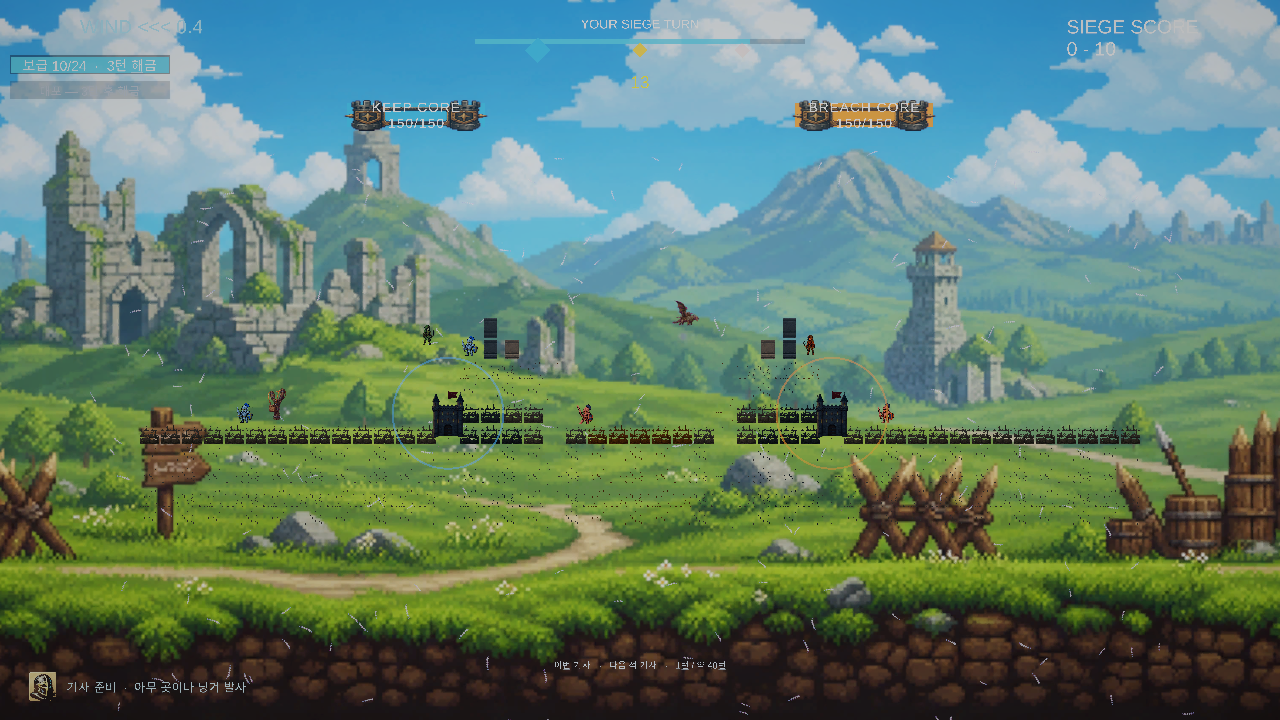
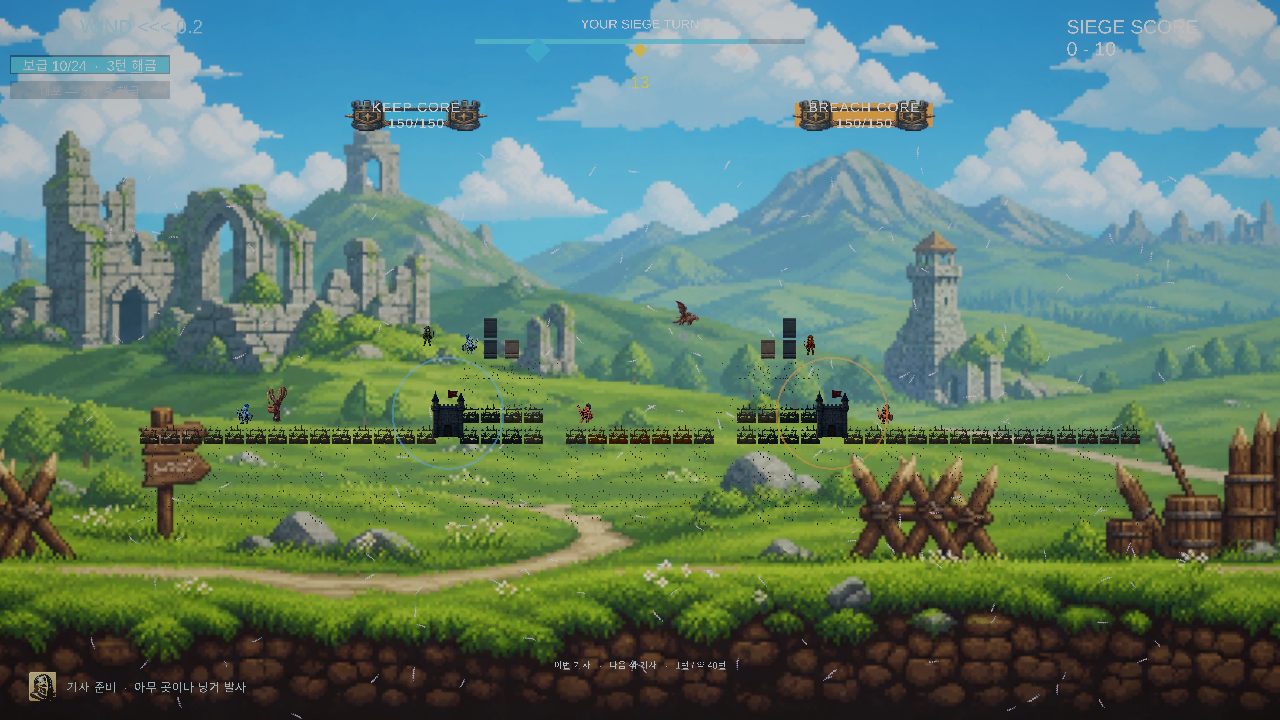
feat(trace): draw the arc while the shot is in the air
Requested: the projectile's path should be visible as it flies, dotted.

Everything needed for that already existed. `ShotTraceDirector` has the dash
texture, the dark casing, tiled texture mode and per-side widths — it just never
drew until `Seal()`, which runs at turn resolution. `Sample` accumulated points
and returned. So the flight itself was untraced: the player watched a bare sprite
travel and learned its path once the path had stopped being useful.

Nothing caught it because every existing test measures the arc AFTER a turn
resolves, and that is exactly when it did work.

`Sample` now draws what it has accumulated. No new visual: the same two layers
the spent arc used, so a live arc and a remembered one are one object at two
moments rather than two things to keep in step.

One accident worth keeping — `Draw`'s gradient is dim at the muzzle and full "at
the impact", and during flight that end is the projectile's current position, so
the moving head is the brightest part of the strip.

Redrawing per sample is cheap because the gate is: 0.35 world units between
points, capped at MaxSamples. A measured flight peaks at 29 positions over 1.7
seconds. `Draw` allocates only when it creates the trace, so repeated calls do
not leak a material per frame.

`ShotOpen` is exposed for the same reason `SampleCount` already was: a test that
looks after resolution cannot tell a live arc from the spent one that replaces
it.
[…]

diff --git a/Assets/Tests/PlayMode/LiveArcDuringFlightProbe.cs b/Assets/Tests/PlayMode/LiveArcDuringFlightProbe.cs
@@ -1,0 +1,106 @@
+using System.Collections;
+using System.Globalization;
+using System.IO;
+using NUnit.Framework;
+using UnityEngine;
+using UnityEngine.SceneManagement;
+using UnityEngine.TestTools;
+
+namespace CastleBusters.Tests
+{
+    /// <summary>
+    /// Pins that the shot's arc is on screen WHILE the projectile flies, not only after it lands.
+    ///
+    /// `ShotTraceDirector.Sample` accumulated points and drew nothing; the arc first appeared in
+    /// `Seal`, which runs at turn resolution. So the flight was untraced — the player watched a bare
+    /// sprite travel and learned its path once the path had stopped being useful. Nothing caught
+    /// that, because every existing test measured the arc AFTER a turn resolved, which is exactly
+    /// when it did work.
+    ///
+    /// Measuring mid-flight is therefore the whole point of this file, and it is why the check reads
+    /// the renderer during a coroutine rather than after one.
+    /// </summary>
+    public class LiveArcDuringFlightProbe
+    {
+        [UnityTest]
+        [Timeout(300000)]
+        public IEnumerator TheArcIsDrawnWhileTheProjectileIsStillMoving()
+        {
+            GameManager.PendingStage = StageId.Stage1;
+            SceneManager.LoadScene("SampleScene", LoadSceneMode.Single);
+            yield return null;
+            yield return new WaitForSecondsRealtime(1.5f);
+            NarrativeVideoIntro.Active?.Skip();
+            yield return null;
+
+            var gm = GameManager.Instance;
+            Assert.That(gm, Is.Not.Null, "the arena must have a GameManager");
+            gm.BeginSiege();
+            yield return new WaitForSecondsRealtime(1.0f);
+
+            var lm = Object.FindFirstObjectByType<LaunchManager>();
+            Assert.That(lm, Is.Not.Null, "the arena must have a LaunchManager");
+
+            // Nothing should be drawn before the first shot of the match.
+            Assert.That(FindArc(), Is.Null,
+                "a player arc exists before anything has been fired; this probe cannot tell a live "
+                + "arc from a leftover one if the board opens with one already drawn.");
+
+            lm.SimulateLaunch(lm.GetSeparatedAimVelocity());
+
+            // Poll while the shot is airborne. The sample gate is 0.35 world units, so two points
+            // exist very early in the flight — but the turn does not resolve for seconds, and that
+            // gap between "moving" and "resolved" is the window this asserts on.
+            int peakPositions = 0;
+            float peakAt = -1f;
+            bool sawWhileOpen = false;
+            float elapsed = 0f;
+
+            while (elapsed < 2.5f)
+            {
+                var arc = FindArc();
+                if (arc != null && arc.positionCount > peakPositions)
+                {
+                    peakPositions = arc.positionCount;
+                    peakAt = elapsed;
+                }
+
+                // ShotOpen is the director's own word for "the projectile has not resolved yet".
+                if (arc != null && arc.positionCount >= 2 && ShotTraceDirector.ShotOpen)
+                {
+                    sawWhileOpen = true;
+                }
+
+                yield return new WaitForSecondsRealtime(0.1f);
+                elapsed += 0.1f;
+            }
+
+            var dir = Path.Combine("_workspace", "current", "qa", "evidence", "visibility");
+            Directory.CreateDirectory(dir);
+            File.WriteAllText(Path.Combine(dir, "live-arc.txt"), string.Format(
+                CultureInfo.InvariantCulture,
+                "saw arc while shot open: {0}\npeak positions: {1}\nfirst seen at: {2:F1}s\n",
+                sawWhileOpen, peakPositions, peakAt));
+
+            Assert.That(sawWhileOpen, Is.True,
+                $"the arc never had two or more points while the shot was still open. Peak was "
+                + $"{peakPositions} positions at {peakAt:F1}s. `Sample` must draw what it has "
+                + "accumulated; accumulating silently and drawing in `Seal` puts the arc on screen "
+                + "only after the projectile has landed, which is the defect this pins.");
+
+            Assert.That(peakPositions, Is.GreaterThan(3),
+                $"the live arc peaked at {peakPositions} positions. The sample gate is 0.35 world "
+                + "units, so any real flight crosses that several times — a strip this short means "
+                + "the draw is firing once and then not tracking the projectile.");
+        }
+
+        /// <summary>The player's arc core, or null when it has not been created yet.</summary>
+        private static LineRenderer FindArc()
+        {
+            var root = GameObject.Find("ShotTrace_Player");
+            if (root == null) return null;
+            var core = root.transform.Find("Core");
+            return core == null ? null : core.GetComponent<LineRenderer>();
+        }
+    }
+}

diff --git a/Assets/Scripts/ShotTraceDirector.cs b/Assets/Scripts/ShotTraceDirector.cs
@@ -132,6 +132,15 @@ namespace CastleBusters
         /// <summary>Samples retained for the in-flight shot. Exposed for tests and diagnostics.</summary>
         public static int SampleCount => samples.Count;
 
+        /// <summary>
+        /// True while a shot is airborne and its arc is still growing.
+        ///
+        /// Exposed for the same reason as <see cref="SampleCount"/>: the arc is now drawn DURING
+        /// flight, and a test that checks it after the turn resolves cannot tell a live arc from the
+        /// spent one that replaces it. This is the window's own name.
+        /// </summary>
+        public static bool ShotOpen => shotOpen;
+
         // Domain-init guard for fast-enter-playmode (domain reload disabled), mirroring CastleRuinFx.
         [RuntimeInitializeOnLoadMethod(RuntimeInitializeLoadType.SubsystemRegistration)]
         private static void ResetStatics() => ResetForNewMatch();
@@ -192,12 +201,36 @@ namespace CastleBusters
             coreDamageThisShot = 0f;
         }
 
-        /// <summary>Offers a flight position. Distance-gated so the arc is frame-rate independent
-        /// (see <see cref="ShotTracePath.ShouldSample"/>).</summary>
+        /// <summary>
+        /// Offers a flight position, and draws what has accumulated so far.
+        ///
+        /// Distance-gated so the arc is frame-rate independent (see
+        /// <see cref="ShotTracePath.ShouldSample"/>).
+        ///
+        /// The drawing is the part that was missing. Until now this method only accumulated, and the
+        /// arc first appeared in <see cref="Seal"/> — at turn resolution, after the projectile had
+        /// already landed. So the flight itself was untraced: the player watched an unadorned sprite
+        /// travel and only learned its path once the path no longer mattered. Requested directly
+        /// ("아군이 발사체를 놓았을 때는 날아가는게 보이게, 그때 궤도가 점선으로").
+        ///
+        /// Nothing new is drawn WITH: the dash texture, the dark casing, the tile mode and the
+        /// widths are the same layers the spent arc already used, so a live arc and a remembered one
+        /// are the same object at two moments rather than two things to keep consistent.
+        ///
+        /// Redrawing the whole strip per sample is O(n) each time, and the gate makes n small: 0.35
+        /// world units between points, capped at MaxSamples. A full-power lob is on the order of a
+        /// hundred points, and only when it has moved far enough to add one.
+        /// </summary>
         public static void Sample(Vector2 position)
         {
             if (!shotOpen) return;
-            if (ShotTracePath.ShouldSample(samples, position)) samples.Add(position);
+            if (!ShotTracePath.ShouldSample(samples, position)) return;
+            samples.Add(position);
+
+            if (Application.isPlaying && ShotTracePath.IsDrawable(samples))
+            {
+                Draw(shotByPlayer ? playerTrace : enemyTrace, shotByPlayer, samples);
+            }
         }
 
         /// <summary>

diff --git a/_workspace/current/production/task-manifest.md b/_workspace/current/production/task-manifest.md
@@ -140,3 +140,4 @@ Blocking notes:
 | 72 | 사용자 보고 3건: 거대 벽 / 사라진 빨간 점 / 안 보이는 궤적 | engineering + QA | done 2026-08-20 - **3건 전부 제가 만든 회귀였고, 원인이 같은 종류였다: 역할에 맞지 않는 불투명도의 아트로 교체.** **(1) "유니티 실행전 돌이 크게 보인다"** - 작업 70이 지면을 `CastleFacadeDirector`에서 제외해 아틀라스를 살렸는데, CastleSkin은 **47~82% 불투명**이라 배경의 풀·길·돌이 비쳤고 Ground 타일은 **100% 불투명**이라 배경을 덮었다. 47×5 불투명 사각형이 화면 중앙을 가로지르면 거대한 벽으로 읽힌다 - 정확히 그렇게 보고됐다. 아틀라스 낭비는 실재했지만 **고칠 쪽이 파사드가 아니었다**: `CreateGround`가 스킨 아트가 있으면 아틀라스를 아예 만들지 않고, 지면은 다시 스킨을 입는다(박스 제외는 유지 - 벽 블록 역할 계산 결함은 별개로 유효). 그 과정에 **두 번째 결함**: `if (groundTex == null) continue;`가 루프 끝의 **부모 지정까지 건너뛰어** 지면이 성 자식이 안 되고 스킨도 구조 계산도 받지 못했다(드문 실패 경로였던 것을 정상 경로로 만들자 드러남). 긍정형 `if (groundTex != null)`로 교체, 기존 소스 문자열 핀도 갱신. **(2) "빨간색점 드랍 위치가 사라졌다"** - `ui_impact_marker`가 **8.8% 불투명 외곽선**이고 0.44u(≈14px)에서 사라진다. 절차적 원은 채워진 디스크(≈78%)였다. 흰 픽셀 + 렌더러 틴트로 복원 - 채움과 깨끗한 틴트를 동시에 얻는다(원래 앰버를 픽셀에 구워 자기명중 청색과 곱해지던 문제도 해결). `PredictedDestinationColor` docstring이 *"붉은 점은 명시된 요구사항"*이라 적어두었는데 **핀이 없어 조용히 깨졌다** - `ImpactMarkerVisibilityTests` 2건 추가(커버리지 >0.5, 흰 픽셀, 적색 우세). **(3) "아군 궤적이 안 보인다"** - 실측: 궤적 자체 색이 머리 2.70:1, **꼬리 1.54:1**(비그래픽 기준선 3:1). **밝은 후보는 전부 더 나쁘다** - 시안 1.78, 로열블루 1.93, 호박 1.37: 하늘(0.43,0.65,0.72)과 초지(0.40,0.54,0.43)가 둘 다 중간 밝기라 **채도로는 밝기 충돌을 못 고친다.** 단일 색으로 양쪽 3:1을 넘기는 것은 없다. 2층으로 해결 - 짙은 남색(0.03,0.08,0.30) 림을 코어 뒤 한 단계 아래에 상수 폭으로, 라벨이 outline을 받은 것과 같은 해법. **중앙값 2.30 -> 4.14 (+80%)**, 하위 10% 1.15 -> 2.65. 남은 약한 10%는 x 181~1168 전체에 분산·y 368 집중 - **꼬리가 아니라 궤적이 어두운 유닛·블록 위를 지나는 지점**이고, 어두운 림이 어두운 물체 위에서 경계를 못 만드는 것은 구조적이다(3층을 만드는 것은 나쁜 거래). **측정 중 제 추측이 세 번 틀렸다**: 꼬리 탓이라 했고(위치가 분산), 헤일로 테이퍼 탓이라 했고(상수 폭으로 2.69->2.63, 무변화), 첫 지표가 프린지를 궤적으로 셌다(임계값 24->64/255). 그리고 첫 이웃 지표가 2층 설계에 안 맞았다 - 픽셀별 대비는 어두운 배경에서 림이 아니라 코어가 나르는 것을 못 본다. 근거: EditMode **584/586**(실패 1 = MCP 노이즈), PlayMode 3/3, `qa/evidence/art-apply/trajectory-contrast.txt`·`terrain-rows.txt` | G4/G6 |
 | 73 | 라이브에서 반투명 거대 석재 사각형이 판 위에 겹침 | engineering + QA | done 2026-08-20 - 사용자 스크린샷(라이브 `jellyggumi.github.io`). **원인: `UpdateVisuals`가 세 손상 밴드에서 스프라이트를 교체하면서 `ApplyPresentationScale`을 부르지 않는다.** 다른 할당 지점(`ApplyBlockData`·`SetPresentationSprite`·`SetSkinSprites`)은 전부 부르고 이 하나만 빠져 있어 "블록이 원본 크기로 렌더"되는 종류 전체가 이 구멍으로 빠졌다. 두 경로로 터진다 - (a) `ApplyPresentationScale`은 렌더러에 스프라이트가 없으면 **조기 반환**하므로 스프라이트 없이 Awake에 도달한 블록은 `localScale` 1로 남고, 이후 첫 밴드가 할당하는 아트를 저작 크기로 렌더한다(`block_normal` 1254px @ 100ppu = **12.54 world unit**, 1u 격자 위에서), (b) 손상 단계 아트가 normal과 원본 크기를 공유한다는 보장이 없어 향후 불일치가 균열 시 크기 점프로 나타난다. **진단을 화면에서 역산해 확인**: 게임 뷰 735px / 22.4u = 32.8 px/u, 사각형 약 450px = 13.7u -> `block_normal`의 12.54u와 일치. **변이 테스트가 확증**: 수정을 빼면 테스트가 정확히 **12.54**를 보고한다. akillness의 `fx_spawn` 크기 수정(`42ff8c7b`)을 먼저 의심했고 **틀렸다** - 라이브 빌드(08-20 01:18 KST)가 그 커밋(00:23)보다 뒤라 이미 배포돼 있었다. 조치: `UpdateVisuals` 끝에서 `ApplyPresentationScale()` 호출(스프라이트 bounds에서 스케일을 유도하므로 멱등). **핀 2건 신규**(`BlockRenderedSizeTests`) - 밴드 3단계를 서로 다른 원본 크기(64/256/512px)로 통과시키고 되돌리며 `SpriteRenderer.bounds`로 측정, 그리고 null 시작 경로. 출하 이유는 **밴드 변경 후 렌더 크기를 아무도 재지 않았다**는 것이다 - 어느 밴드가 어느 스프라이트를 고르는지 보는 테스트와 생성 시점 콜라이더·시각 일치를 보는 테스트가 있었고 그 사이에 교체가 있었다. 근거: EditMode **587/588**(실패 0, Skip 1 정당), PlayMode 3/3, 변이 2/2 실패 확인 후 바이트 동일 복원 | G4/G6 |
 | 74 | 반투명 거대 사각형의 진짜 원인 규명 (작업 73 후속) | engineering + QA | done 2026-08-20 - 작업 73이 `UpdateVisuals`의 리스케일 누락을 고쳤지만 **그것이 스크린샷의 원인이라고 증명하지 못했다.** 사용자가 재현 조건을 모른다고 해서 추측을 버리고 전수 조사로 갔다. **(1) 아틀라스는 원인이 아니다** - 패커는 활성이고 실제로 축소하지만(1254px -> 396px, 12.54u -> **3.96u**) **세 밴드가 같은 크기로 패킹**된다. 블록 284개 × 3밴드 = **849 측정, 위반 0건**. 경기 시작 시점 2.5u 초과는 배경(81.5u) 하나뿐이고 발사 후에도 같다. **(2) 진짜 원인: `GameFeelRingPulse:1371`이 `finalRadius`를 `localScale`에 직접 대입한다.** 그것은 **원본 1u 스프라이트에서만** world 반지름이다 - `SpawnShockwaveRing`의 절차적 링은 `Sprite.Create(tex, rect, pivot, pixelsPerUnit: 48)`에 48px이라 정확히 1.0u여서 이름이 참이었고, `SpawnHiggsfieldAccent`는 512px @ 100ppu = **5.12u** 아트를 넘겨 같은 대입이 **5.12배**를 만든다. 턴 진행 프로브가 잡았다: `HiggsfieldCollapseDustAccent` **3.64u**(턴 1부터 매 충돌·붕괴), `HiggsfieldImpactAccent` 2.61u. `SpawnCollapseDust`는 0.4~0.85로 클램프하므로 0.71을 요청했고 **0.71 × 5.12 = 3.63**이 그려졌다. **변이가 양방향 확증**: 수정을 빼면 테스트가 3.63을 보고하고 라이브 실측이 3.64였다. 조치: 정규화를 펄스 안으로(`nativeToWorld = 1/최대변`) - 모든 호출부가 한 번에 고쳐지고 절차적 링은 1.0u라 무변화(변이에도 통과, 두 케이스를 함께 둔 이유). **(3) 추측이 다섯 번 틀렸다**: `fx_spawn` 버스트(이미 배포됨), 이벤트 게이트(`Start`에서 스케일), 설치 벽돌(`ApplyBlockData`가 먼저), 그리고 작업 73의 두 발동 경로(프리팹에 스프라이트 있음·세 PNG 크기 동일). **(4) 정당한 것을 구분했다** - `fx_eruption` 8.07u는 `columnHeight=7.5`에 ±12% 지터이고 그 값이 `Physics2D.OverlapArea` 사각형과 **같은 변수**라 아트가 광고하는 위험과 일치한다. 이름으로 제외하고 기준선은 3.0 유지(정당 최대 2.76 < 3.0 < 결함 3.63). 신규 프로브 2건(`BlockSizeCensusProbe`·`MidMatchOversizeProbe`) + 핀 3건(`RingPulseWorldRadiusTests`, 절차/아트 두 케이스 + null). 근거: EditMode **590/591**(실패 0, Skip 1 정당), 9턴 walk + 화포 설치 **0건**, `qa/evidence/block-size/` | G4/G6 |
+| 75 | 발사체 비행 중 궤적을 점선으로 보이게 | engineering + QA | done 2026-08-20 - 사용자 요청 "아군이 발사체를 놓았을때는 날아가는게 보이게, 그때 궤도가 점선으로 해서 잘보이게". **점선·케이싱·타일링 기계는 이미 다 있었고 빠진 것은 비행 중 렌더 호출 하나였다.** `ShotTraceDirector.Sample`이 점만 누적하고 그리지 않아, 궤적이 `Seal()`(턴 해결, `GameManager:2579`) 때 비로소 나타났다 - 즉 **비행 자체는 무궤적**이었고 플레이어는 맨 스프라이트가 날아가는 것을 보다가 경로가 더 이상 쓸모없어진 뒤에 그것을 알게 됐다. 아무도 못 잡은 이유는 기존 테스트가 전부 **턴 해결 후**를 재는데 그때는 실제로 동작했기 때문이다. 조치: `Sample`이 누적한 것을 즉시 `Draw`한다 - **새로 그리는 것은 없다**(대시 텍스처·어두운 케이싱·`LineTextureMode.Tile`·폭 전부 기존 spent arc의 레이어 재사용). 부수 이점: `Draw`의 그라디언트가 "착탄 쪽이 진하게"인데(`:371-372`) 비행 중 그 끝은 **발사체의 현재 위치**이므로 움직이는 머리가 가장 진하다 - 의도하지 않았지만 맞는 동작. 성능: 표본 게이트가 0.35 world unit이고 `MaxSamples` 상한이 있어 재드로가 작다(실측 **29점**). 반복 호출 안전성 확인 - `Draw`는 `t.Root == null`일 때만 할당하므로 머티리얼 누수 없음. `ShotOpen` 접근자 추가(`SampleCount`와 같은 이유 - 해결 후를 재는 테스트는 라이브 궤적과 그것을 대체하는 spent를 구분할 수 없다). **변이 확증**: 렌더 호출을 빼면 비행 중 **0점**, 넣으면 1.7초에 걸쳐 29점까지 자란다. 근거: EditMode **590/591**(실패 0, Skip 1 정당), PlayMode 4/4, `qa/evidence/visibility/live-arc.txt`. **주의: 전체 PlayMode 스위트는 15분 타임아웃에 걸린다** - 관련 프로브만 필터로 돌렸다 | G4/G6 |
